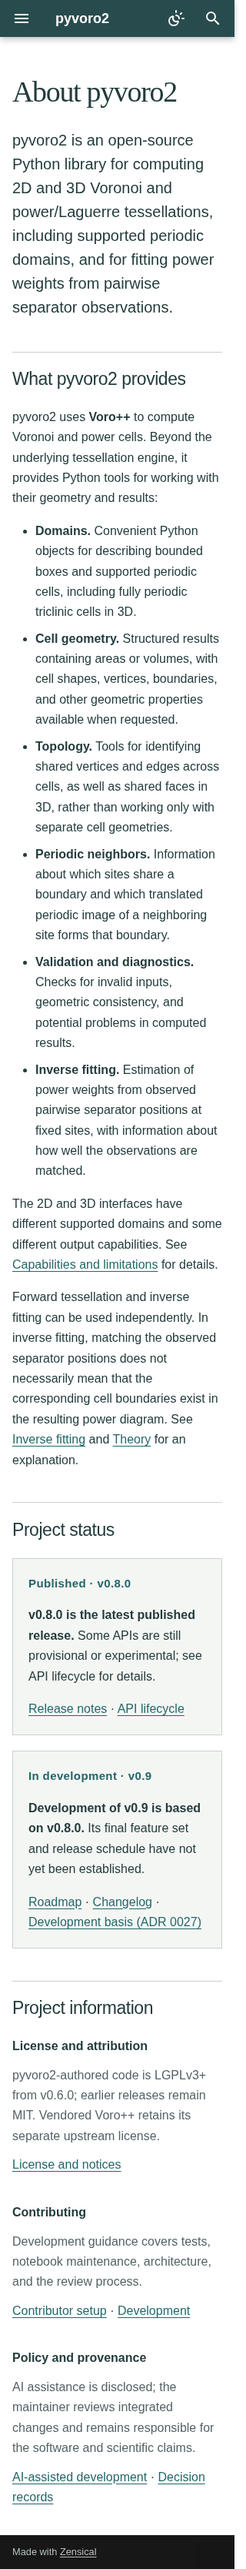
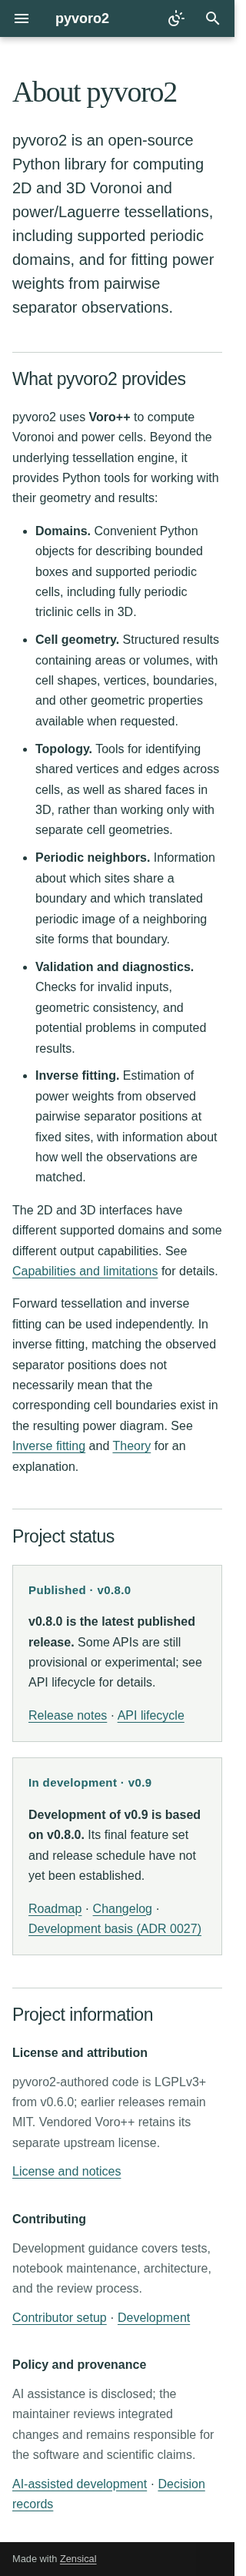
docs: align overview list width and spacing with prose

diff --git a/docs/stylesheets/overview.css b/docs/stylesheets/overview.css
@@ -28,6 +28,9 @@
   letter-spacing: -.02em;
 }
 .pv-overview > p { max-width: 74ch; }
+/* Allow for native list indentation while keeping a prose-like reading width. */
+.md-typeset .pv-overview > ul { max-width: 78ch; }
+.md-typeset .pv-overview > ul > li + li { margin-top: .6em; }
 .pv-overview-lead {
   max-width: 62ch;
   font-size: 1rem;

diff --git a/review/w5-a/README.md b/review/w5-a/README.md
@@ -67,8 +67,8 @@ card or pretend the Home figures depict other notebooks.
 
 ## Browser captures
 
-Actual full-page native Zensical builds. Project captures reflect the editorial
-correction; the approved specimen captures are unchanged. Click for original PNGs.
+Actual full-page native Zensical builds. Project captures include the final list
+typography correction; approved specimen captures are unchanged. Click for original PNGs.
 
 | Width | Light | Carbon |
 | --- | --- | --- |
@@ -104,7 +104,46 @@ findings, separately from functional/assertion failures (exit 1). No rules or
 nodes are suppressed. Native limitations in [#142](https://github.com/DeloneCommons/pyvoro2/issues/142)
 and their Development record remain intact.
 
-## Focused editorial correction
+## Final list typography correction
+
+Verified PR HEAD `477f09b80ddc97d16b10b77831f6a574eb010d48` before editing.
+Only `docs/stylesheets/overview.css` changes in production: direct overview lists
+receive `max-width: 78ch`; successive direct list items receive `margin-top: .6em`.
+Approved Project text, paragraph widths, native indentation/markers, cards,
+information groups, palettes and specimen source are unchanged.
+
+In Chromium's font fallback at 1366 px, list text narrows from 908 px to 674 px,
+beside 658 px prose. The list box is 694 px wide, including its native 20 px item
+indent. Adjacent item margins collapse to about 9.6 px (previously 8 px), rather
+than adding together. The list grows by about 34 px on desktop and 8 px at
+390/320 px; mobile line wrapping is unchanged. This small increase needs no
+mobile override. Status-card width and height remain unchanged; their vertical
+position follows the list's added height.
+
+- `zensical build --clean --strict`: **pass**, no issues. Repository flake8,
+  notebook export synchronization and `git diff --check`: **pass**.
+- Static check: **93 pages**, no broken local links/anchors/assets; **91
+  non-Project article bodies unchanged**. Project Markdown is byte-identical
+  to the reviewed HEAD. No scientific assets changed.
+- The [focused browser check](editorial-browser-results.json) was rerun: six
+  updated full-page Light/Carbon captures at 1366/390/320 px, 150%/200% text
+  reflow, all 13 article links by keyboard, native palette, instant navigation,
+  history, Search and mobile drawer passed with no horizontal overflow.
+  Result data is identical to the preceding editorial run. Project axe scans
+  have no findings; the harness still exits **2** for the 12 native light Search
+  contrast nodes in #142, with zero functional/layout failures.
+- Applying the new stylesheet to the reviewed build passes **34 full-page
+  raster comparisons**: specimen at all three widths and
+  Home, Guide, Examples, Theory, API Reference, Development and License at
+  1366/320 px, all in Light/Carbon. Six Project comparisons confirm unchanged
+  card dimensions. Across the 34 comparisons, 7 pixels differ within the existing
+  native raster-noise tolerance described below. These use in-memory captures; no extra screenshot
+  collection or specimen-source change was needed.
+
+The focused command below reproduces the captures and interaction checks.
+Final-head GitHub CI is recorded in the PR description.
+
+## Previous editorial correction (`477f09b`)
 
 Verified PR #144 HEAD `6e2e2b30810f5cbe6c98ec499d8f2966ac04b84c` before editing.
 The only production change since that reviewed version is `docs/project/index.md`:
@@ -135,9 +174,8 @@ PROJECT_ONLY=1 NODE_PATH=/absolute/scratch/node_modules \
   node review/w5-a/verify.cjs CANDIDATE_URL
 ```
 
-The six screenshots and `editorial-browser-results.json` are refreshed; original
-design evidence below is retained separately. Final pushed-head CI is reported
-in PR #144 rather than predicted here.
+The six screenshots and focused results have since been rechecked for the list
+typography correction above; original design evidence below is retained separately.
 
 ## Initial design validation and limits (reviewed HEAD `6e2e2b3`)
 
